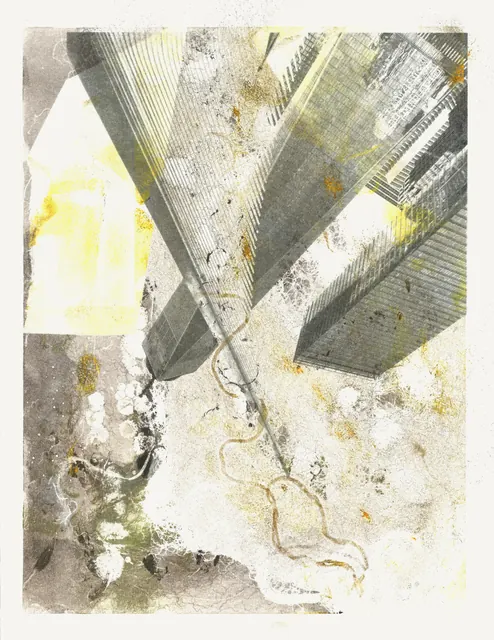
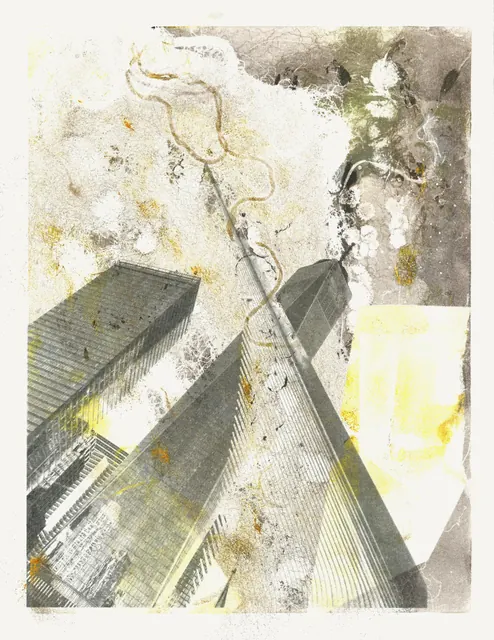
Drop 04 Truss and Salt from the site; turn 01 the right way up
01's scan is now rotated 90° clockwise rather than counter-clockwise, so the
river sits at the top as on the print.

Claude-Session: https://claude.ai/code/session_017syLoBPernmDiKrEhQeB1T

diff --git a/src/content.js b/src/content.js
@@ -1,6 +1,6 @@
 // All visitor-facing text. Wall texts follow the "上墙文字（定稿）" tab of the
 // curatorial doc word for word; work labels follow "展览文字（现场用）".
-// Works 04, 14, 15, 16 carry working titles until the artist confirms them.
+// Works 14, 15, 16 carry working titles until the artist confirms them.
 
 export const site = {
   title: { zh: '界：析出的城市', en: 'Boundary: The Deposited City' },
@@ -110,12 +110,6 @@ export const works = [
   { id: '01', zone: 'drawn', title: { zh: '河道在楼上', en: 'The River Above the Tower' }, medium: T.photo },
   { id: '02', zone: 'drawn', title: { zh: '绿涌入立面', en: 'Green Enters the Facade' }, medium: T.photo },
   { id: '03', zone: 'drawn', title: { zh: '窗格', en: 'Grid' }, medium: T.collage },
-  {
-    id: '04',
-    zone: 'drawn',
-    title: { zh: '桁架与盐', en: 'Truss and Salt' },
-    medium: { zh: '单版画、照片转印、盐析，纸本', en: 'Monoprint with photo transfer and salt precipitation on paper' },
-  },
   {
     id: '05',
     zone: 'drawn',

diff --git a/src/main.js b/src/main.js
@@ -88,7 +88,6 @@ const choreography = [
   { kind: 'cover', ids: ['10'], chapter: true },
   { kind: 'cover', ids: ['13'] },
   { kind: 'trace', ids: ['01'], mode: 'frame' },
-  { kind: 'trace', ids: ['04'], mode: 'frame' },
   { kind: 'trace', ids: ['05'], mode: 'rise' },
   { kind: 'cover', ids: ['12'] },
   { kind: 'push', ids: ['07'], side: 'left' },

diff --git a/scripts/prepare_images.py b/scripts/prepare_images.py
@@ -47,7 +47,7 @@ ROTATE_180 = {"01"}  # PDF scan of 01 is upside down
 # work id -> (scan file, degrees to rotate counter-clockwise to stand upright)
 SCANS = {
     "00": ("wave.jpg", 90),
-    "01": ("wtc.jpg", 90),
+    "01": ("wtc.jpg", -90),
     "02": ("brick.jpg", 90),
     "03": ("bamboo.jpg", -90),
     "05": ("dream.jpg", -90),
@@ -59,7 +59,8 @@ SCANS = {
 }
 
 # works without a sharp scan yet: a flat placeholder instead of a blurry image
-PENDING = {"04", "09", "11", "14", "15", "16"}
+PENDING = {"09", "11", "14", "15", "16"}
+# 04 Truss and Salt is not shown on the site
 
 # the artist's own crops, used as the region as they are (no scan needed)
 CROPS = {"03", "06", "10", "13"}
